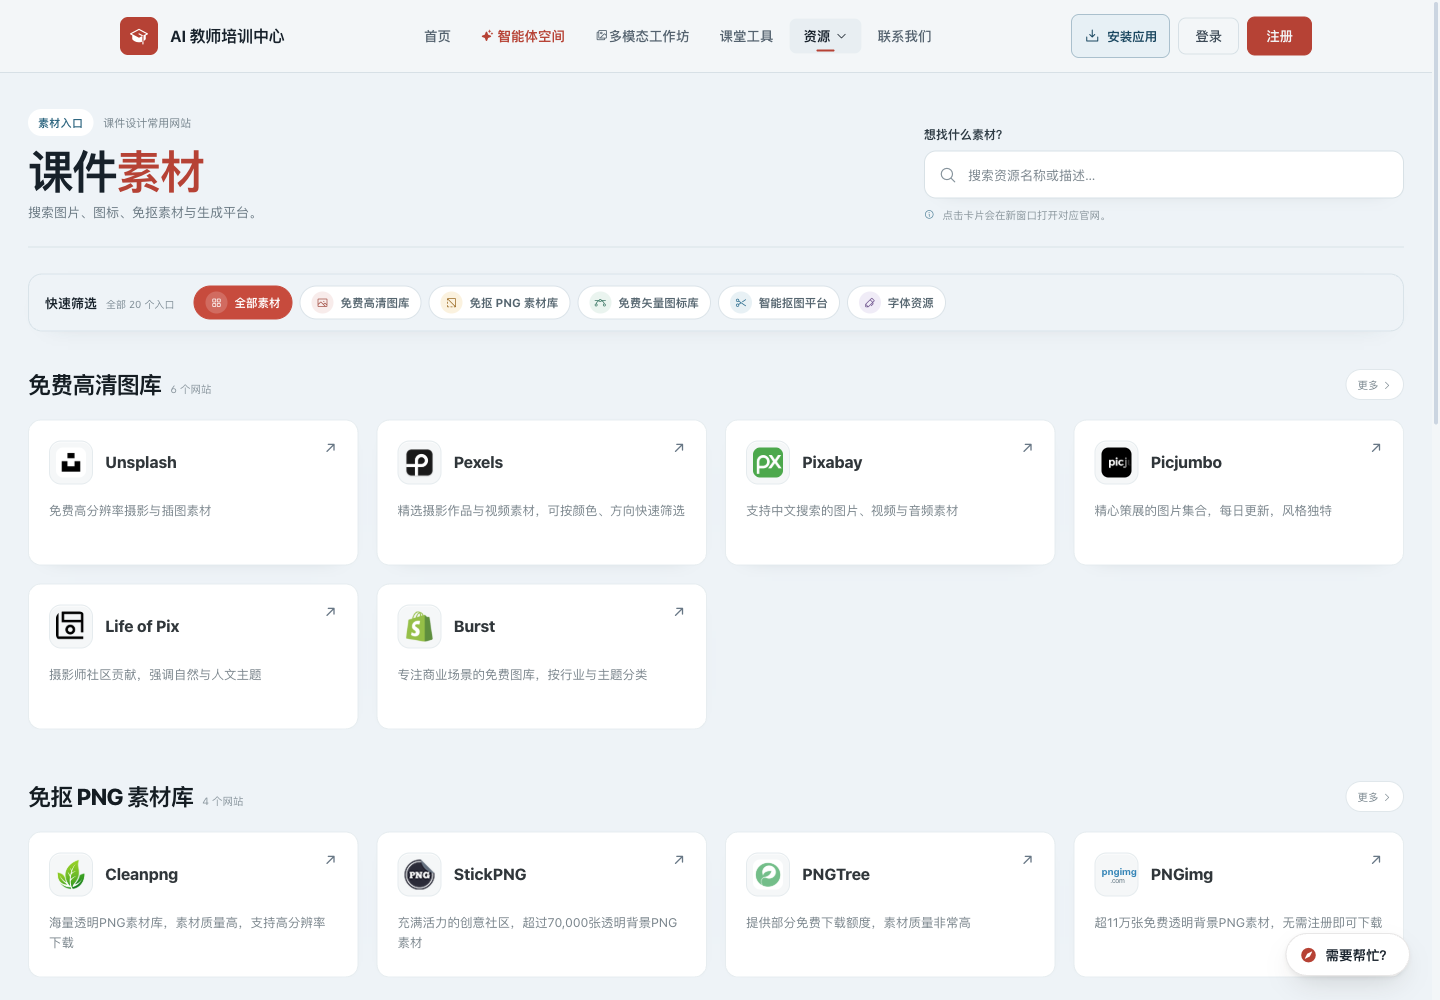
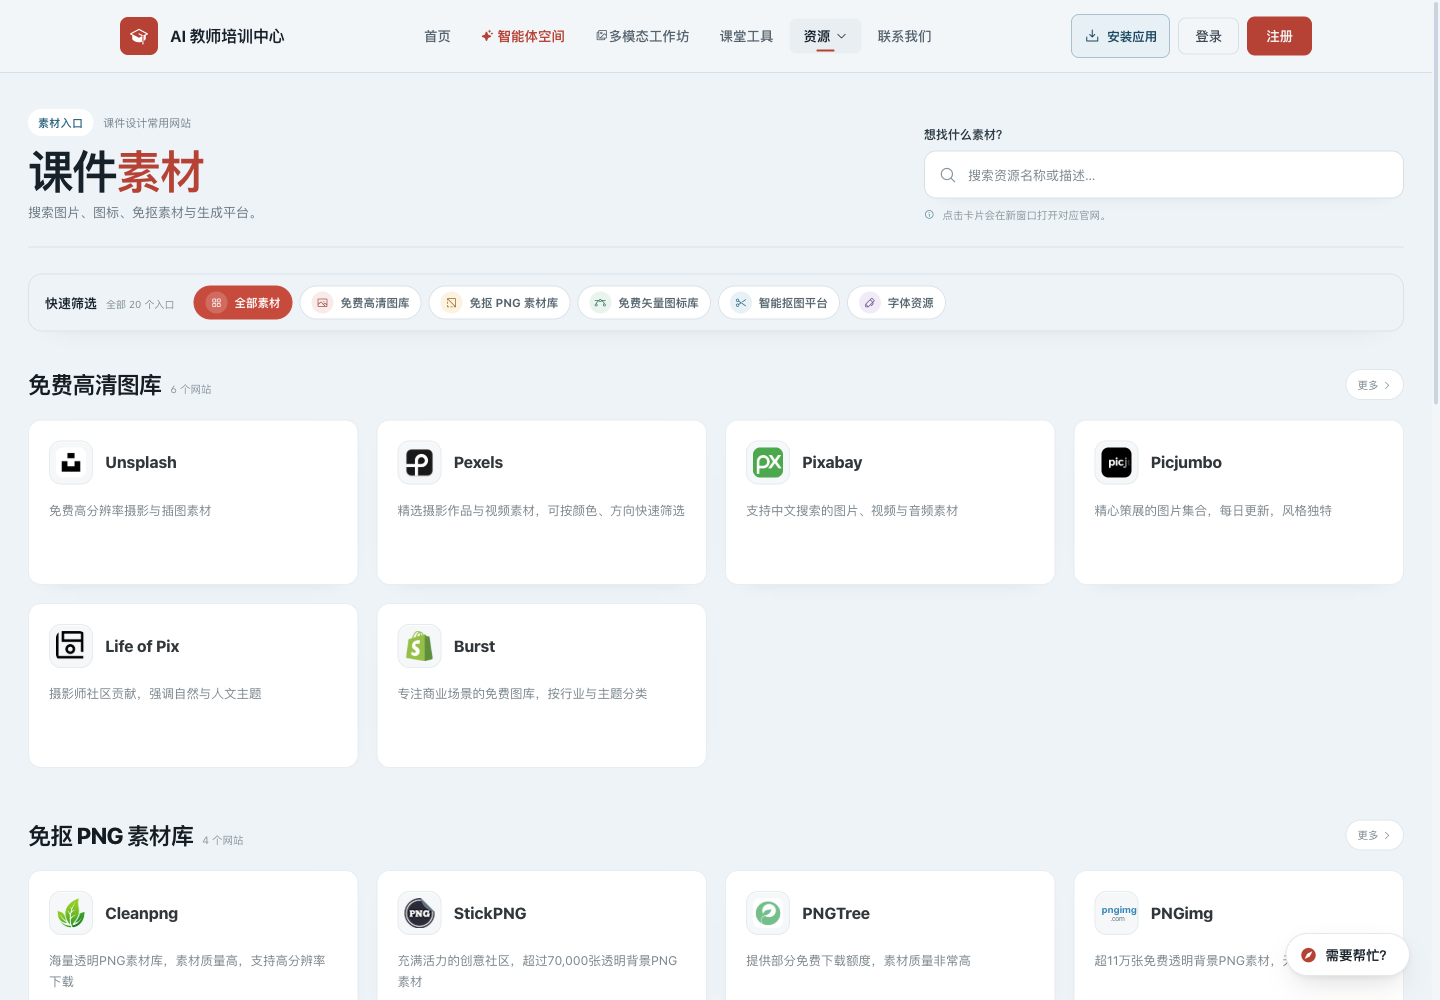
Set resource cards to two-to-one ratio

diff --git a/resources.html b/resources.html
@@ -25,7 +25,7 @@
     <meta name="mobile-web-app-capable" content="yes">
     <meta name="apple-mobile-web-app-status-bar-style" content="black-translucent">
     <meta name="apple-mobile-web-app-title" content="AI 教研">
-    <link rel="stylesheet" href="css/style.css?v=20260924-unified-logo-tiles">
+    <link rel="stylesheet" href="css/style.css?v=20260925-resource-cards-2x1">
     <link rel="stylesheet" href="css/pwa.css?v=20260924-local-email-direct">
     <style>.resource-hero h1 .site-copy-accent{font-style:normal;color:var(--brand)}</style>
 </head>
@@ -245,7 +245,6 @@ function renderContent(filterText = '') {
                                     <div class="resource-card-top">
                                         ${resourceLogoMarkup(item, logo)}
                                         <div class="resource-card-name"><h3>${SafeRender.escape(item.name || '未命名资源')}</h3></div>
-                                        <span class="resource-open" aria-hidden="true"><i class="ph-bold ph-arrow-up-right"></i></span>
                                     </div>
                                     <p>${SafeRender.escape(compactResourceDescription(item.desc || '打开官网查看可用素材。'))}</p>
                                 </a>

diff --git a/css/style.css b/css/style.css
@@ -3051,7 +3051,8 @@ textarea:focus-visible,
 }
 .resource-entry { position: relative; min-width: 0; }
 .resource-card {
-    min-height: 146px;
+    aspect-ratio: 2 / 1;
+    min-height: 0;
     padding: 20px;
     border: 1px solid rgba(221,229,234,.7);
     border-radius: 13px;
@@ -3089,7 +3090,6 @@ textarea:focus-visible,
 .resource-logo-wordmark b { display: block; color: #3585b7; font-size: 10px; line-height: 1.05; }
 .resource-card-name { flex: 1 1 auto; min-width: 0; text-align: left; }
 .resource-card-name h3 { margin: 0; color: #30363a; font-size: 16px; font-weight: 760; line-height: 1.3; }
-.resource-open { margin: 0 0 0 auto; color: #a5afb4; font-size: 12px; }
 .resource-card > p {
     display: -webkit-box;
     min-height: 40px;
@@ -3125,5 +3125,5 @@ textarea:focus-visible,
     .resource-content { gap: 38px; }
     .resource-section-title h2 { font-size: 21px; }
     .resource-grid { grid-template-columns: 1fr; gap: 12px; }
-    .resource-card { min-height: 142px; padding: 17px; }
+    .resource-card { min-height: 0; padding: 17px; }
 }

diff --git a/design-qa.md b/design-qa.md
@@ -22,13 +22,14 @@
 
 ## Focused region comparison evidence
 
-卡片区域另以相同宽度裁切到 `comparison-cards.png` 共同查看。最终版把 Logo、名称和说明统一左对齐，只保留右上角跳转图标；官网域名、分类标签、底部“访问官网”和“查看官方许可”均已移除。
+卡片区域另以相同宽度裁切到 `comparison-cards.png` 共同查看。最终版把 Logo、名称和说明统一左对齐；右上角箭头、官网域名、分类标签、底部“访问官网”和“查看官方许可”均已移除。
 
 ## Findings
 
 - 没有残留的 P0、P1 或 P2 问题。
 - 字体与排版：卡片只保留 Logo、名称和一句说明，长描述限制为两行。
 - 间距与布局：1440 px 显示四列、1000 px 显示三列、820 px 显示两列、390 px 显示一列。
+- 卡片比例：四种响应式视口下的实测宽高比均为 2.000。
 - 颜色与视觉令牌：页面底色、白色卡片和橙红强调色与参考图同类；边框与阴影保持克制。
 - 图片质量：当前实际加载的 20 个网站均显示真实 Logo，失败回退数量为 0。
 - Logo 一致性：全部 Logo 使用 44×44 px 圆角方形底板、统一内边距与 30×30 px 图形区域；五个横版字标替换为网站官方 favicon。
@@ -53,6 +54,12 @@
 - StickPNG、趣作图、字由、100font 和字魂改用各网站官方方形 favicon，避免横版字标缩小后无法辨认。
 - 桌面与手机端均检查 20 个 Logo，尺寸一致且加载失败数量为 0。
 
+### Iteration 4 — passed
+
+- 所有资源卡片改为精确的 2:1 宽高比。
+- 删除重复出现的右上角跳转箭头，保留整张卡片的链接、悬停与键盘聚焦反馈。
+- 四列、三列、两列和手机单列状态均实测为 2.000，重新载入手机页面后无横向溢出。
+
 ## Primary interactions and console check
 
 - 搜索输入可实时筛选；无结果状态正确出现，清除搜索后恢复全部资源。
@@ -71,6 +78,7 @@
 - [x] 高清真实 Logo 与失败回退检查
 - [x] 统一 Logo 底板、内边距与显示尺寸
 - [x] 左对齐卡片与精简信息层级
+- [x] 2:1 卡片比例与无箭头交互检查
 - [x] 同尺寸全页与卡片区域视觉对照
 
 final result: passed
